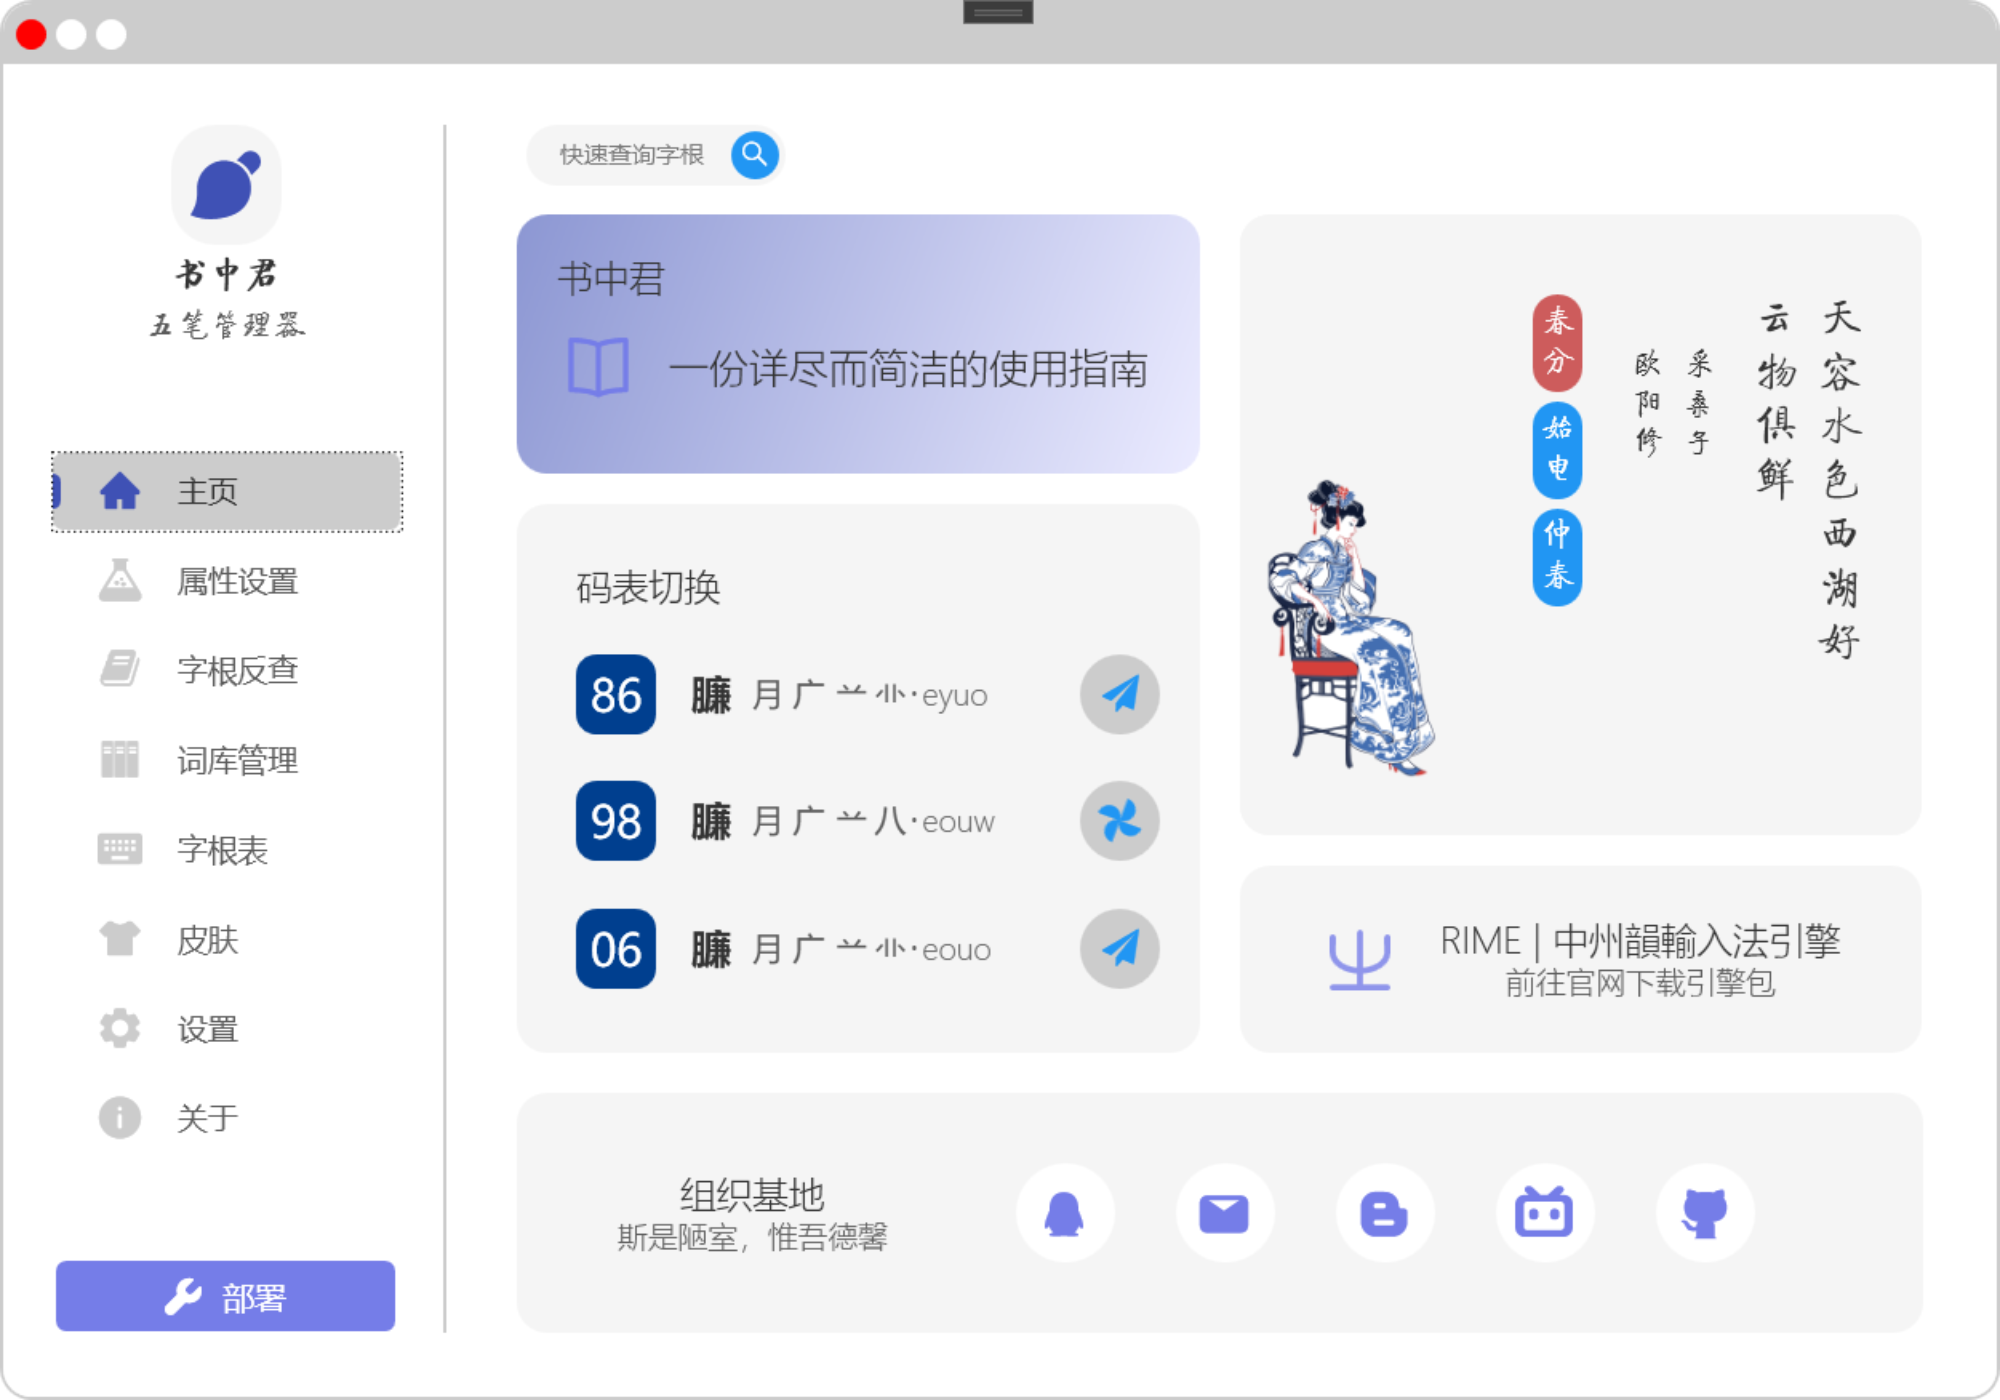
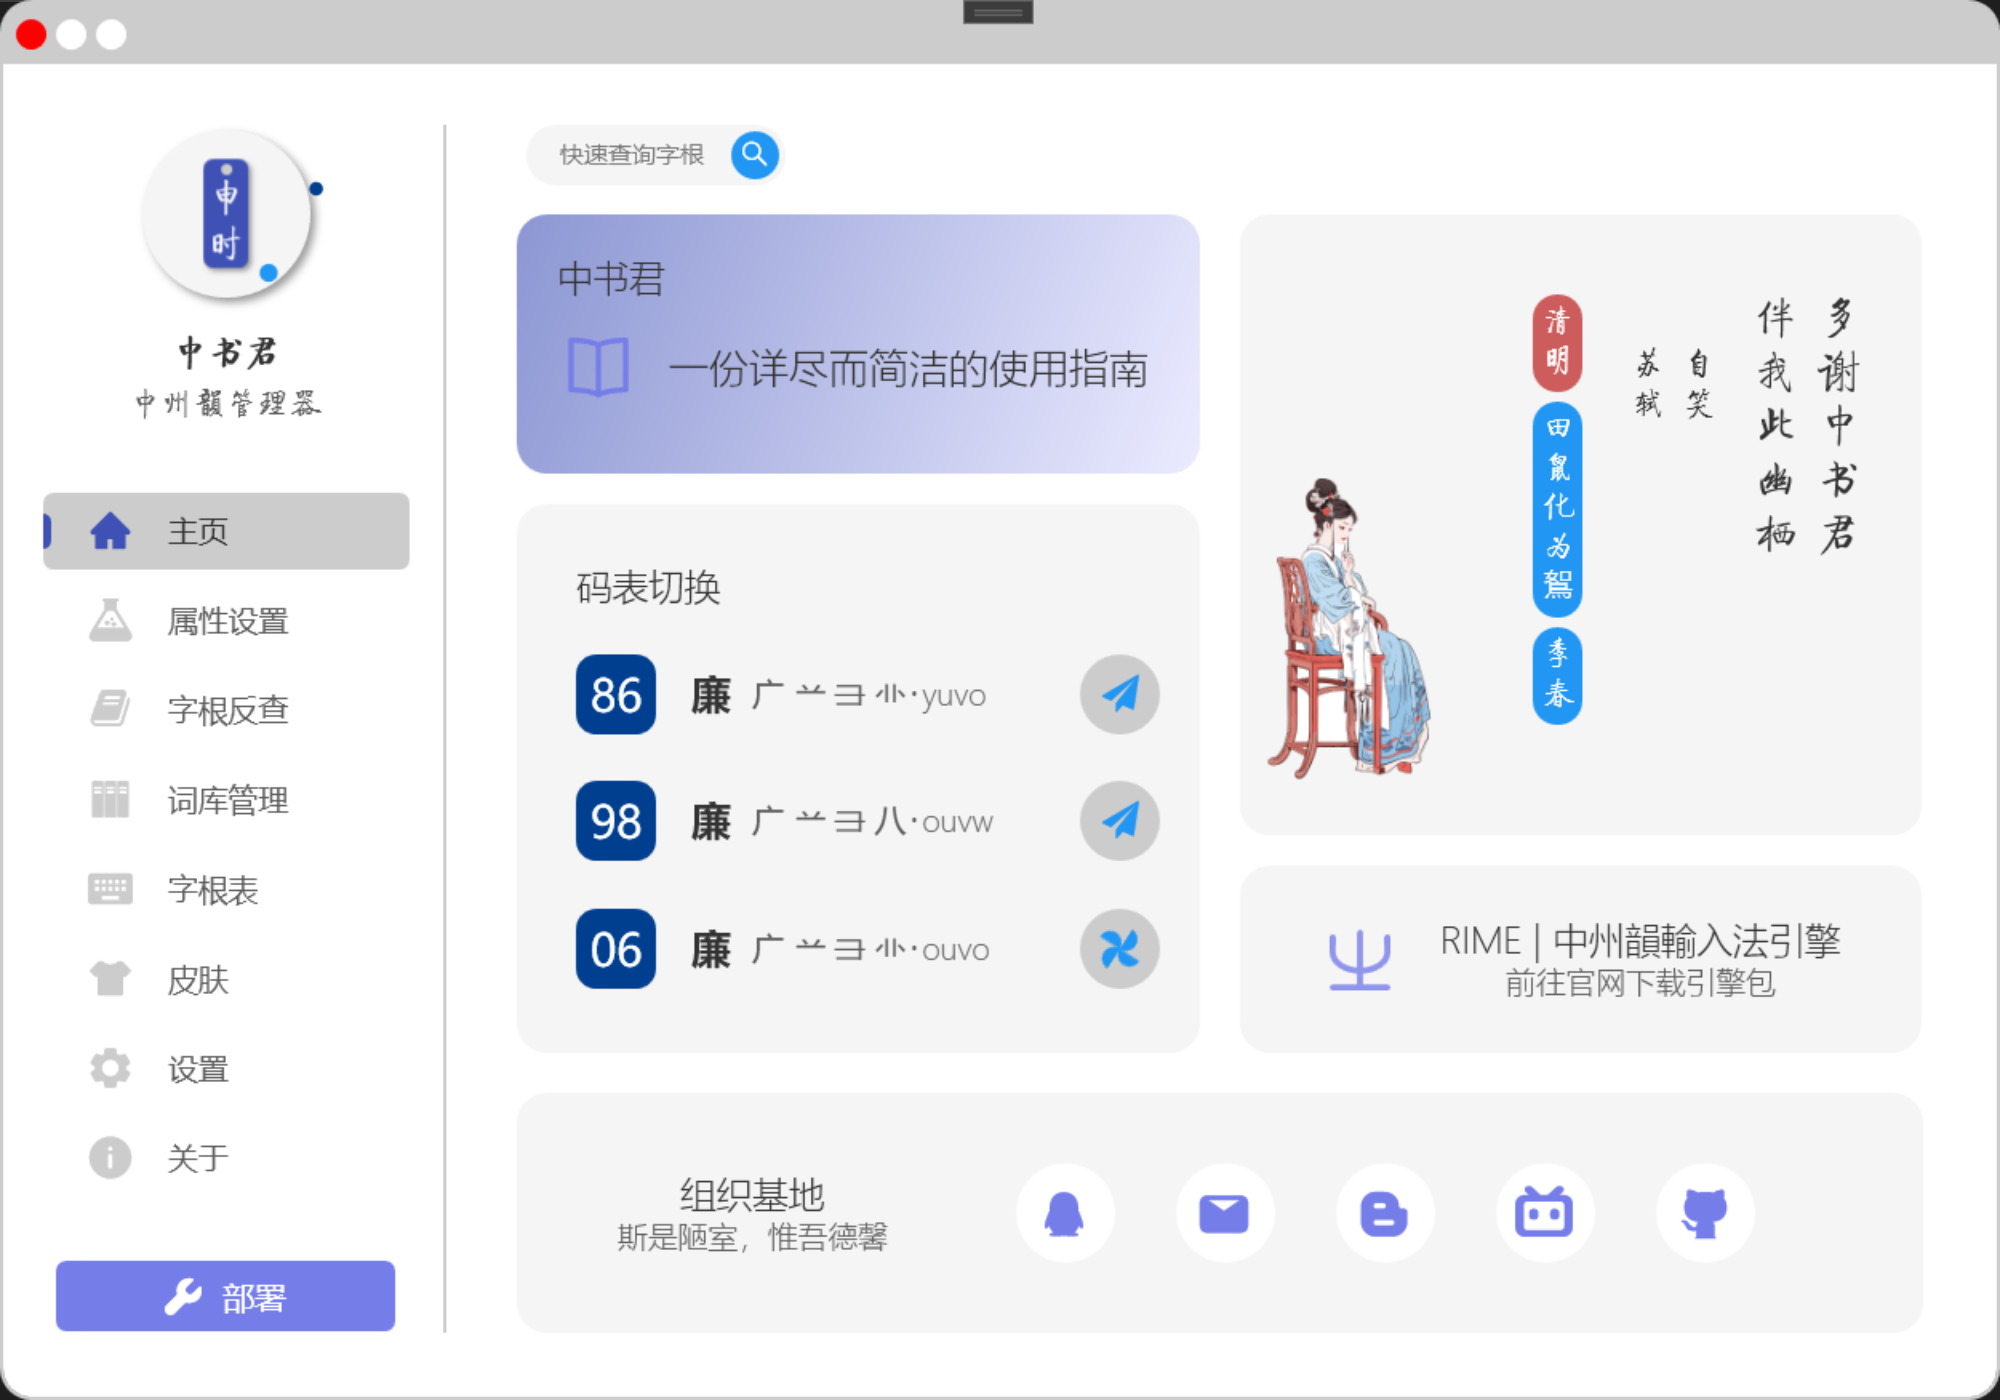
ReadMe更新

diff --git a/README.md b/README.md
@@ -1,10 +1,10 @@
-# 书中君
+# 中书君
 
 ![首页](Images/wm_1.png)
 
 ## 介绍
 
-🎯 **【书中君】** 是一款针对于 Rime 输入法引擎的管理器，最初的愿望是希望它能支持五笔输入方案的属性、词库等方面的管理。最终还希望它能完美地兼容更多输入方案（如简拼、双拼等）的管理，以提升 Rime 的使用体验。
+🎯 **【中书君】** 是一款针对于 Rime 输入法引擎的管理器，最初的愿望是希望它能支持五笔输入方案的属性、词库等方面的管理。最终还希望它能完美地兼容更多输入方案（如简拼、双拼等）的管理，以提升 Rime 的使用体验。
 
 📢 目前，本软件还处于研发阶段，相应功能会持续更新，如有特殊需求，可提交 ISSUES.
 
@@ -40,7 +40,7 @@
 
 *💡 提示：导入方案前要求已安装 Rime 引擎包！*
 
-以86版五笔方案为例。在书中君首页的「一键导入方案」卡片下，点击86版的齿轮按钮，软件内置86版五笔方案，此时，将会在 Rime 引擎下自动配置86五笔方案。
+以86版五笔方案为例。在中书君首页的「一键导入方案」卡片下，点击86版的齿轮按钮，软件内置86版五笔方案，此时，将会在 Rime 引擎下自动配置86五笔方案。
 
 *📢 该动作将会清除 Rime 用户目录下的原有方案及所有配置信息！*
 
@@ -58,7 +58,7 @@
 
 ## QQ群
 
-点击链接加入群聊【书中君·五笔斋】：https://qm.qq.com/q/2r4g68Sdf2
+点击链接加入群聊【中书君·五笔斋】：https://qm.qq.com/q/2r4g68Sdf2
 
 或使用二维码加入群聊：
 
@@ -80,7 +80,7 @@
     5. 修改五笔引擎默认样式
     6. 添加回车查询功能
     7. 字根页面添加记忆功能
-    8. 修复书中君切换皮肤重启后名称不一致问题
+    8. 修复中书君切换皮肤重启后名称不一致问题
     9. 修复了其他明显bug
 - 2024-04-07 更新汇总
     1. 更新新世纪单字码表
@@ -92,3 +92,8 @@
     3. 添加进程守护功能
     4. 添加窗体状态按钮布局调整功能
     5. 其他：修复新世纪码表错误
+- 2024-04-10 更新汇总
+    1. 对所有码表进行算法排序
+    2. 校正部分不正确编码
+    3. 添加养生插件
+    4. 软件名更换为「中书君」
